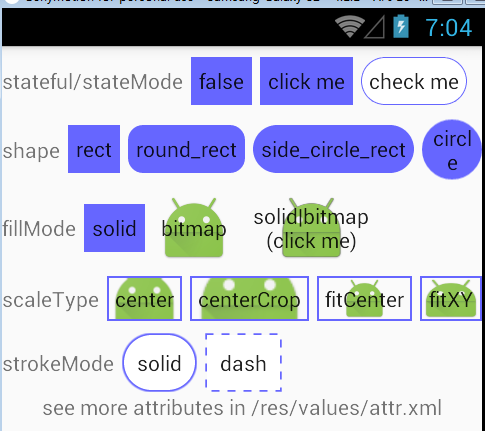
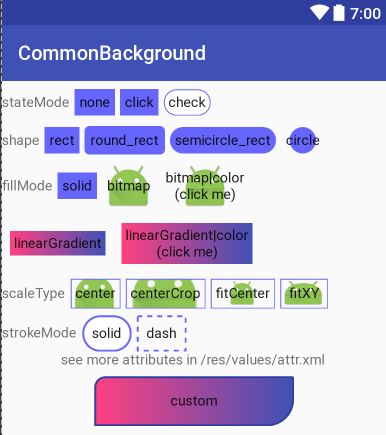
edit preview picture and README

diff --git a/README.md b/README.md
@@ -6,7 +6,7 @@ Android common-background drawable, supports multi shapes, multi states, multi s
 ![image](https://github.com/yintaibing/CommonBackgroundWidget/blob/master/screenshot/preview.png)
 
 # Usage
-- Usage in XML(see all configurable attributes in [attrs.xml](https://github.com/yintaibing/android-common-drawable-factory/blob/master/app/src/main/res/values/attrs.xml)):
+- Usage in XML(see all configurable attributes in attrs.xml below
 ```xml
 <com.ytb.myapp.widget.commonbackground.CommonBackgroundXXX
             android:layout_width="wrap_content"
@@ -44,3 +44,68 @@ CommonBackgroundXXX supports TextView, Button, ImageView, CheckBox, FrameLayout,
         // set.theChecked()...
         set.showOn(yourView);
 ```
+
+# attrs.xml
+```xml
+    <!-- 通用背景图属性定义 -->
+    <declare-styleable name="CommonBackground">
+        <!-- 状态的区分模式-->
+        <attr name="bg_stateMode">
+            <enum name="none" value="0"/><!-- 无状态 -->
+            <enum name="click" value="1"/><!-- 点击模式，类似于Button -->
+            <enum name="check" value="2"/><!-- 选择模式，类似于CheckBox -->
+        </attr>
+
+        <!-- 形状 -->
+        <attr name="bg_shape">
+            <enum name="rect" value="0"/>
+            <enum name="round_rect" value="1"/><!-- 圆角矩形 -->
+            <enum name="semicircle_rect" value="2"/><!-- 圆头矩形（自动计算半径） -->
+            <enum name="circle" value="3"/>
+        </attr>
+
+        <!-- 填充模式，若为solid|bitmap，此时填充色将作为图片蒙层，注意设置填充色的透明度 -->
+        <attr name="bg_fillMode">
+            <flag name="color" value="1"/><!-- 纯色填充 -->
+            <flag name="bitmap" value="2"/><!-- 图片填充 -->
+            <flag name="linearGradient" value="4"/><!-- 线性渐变填充 -->
+        </attr>
+
+        <!-- 填充图的缩放类型 -->
+        <attr name="bg_scaleType">
+            <enum name="center" value="0"/>
+            <enum name="centerCrop" value="1"/><!-- 对齐控件width/height中的大者 -->
+            <enum name="fitCenter" value="2"/><!-- 对齐控件width/height中的小者 -->
+            <enum name="fitXY" value="3"/><!-- 对齐控件长宽 -->
+        </attr>
+
+        <!-- 描边模式 -->
+        <attr name="bg_strokeMode">
+            <enum name="none" value="0"/>
+            <enum name="solid" value="1"/><!-- 实线描边 -->
+            <enum name="dash" value="2"/><!-- 断续线描边 -->
+        </attr>
+        <attr name="bg_radius" format="dimension"/><!-- 圆角半径/形状为圆时的半径 -->
+        <attr name="bg_radiusLeftTop" format="dimension"/>
+        <attr name="bg_radiusLeftBottom" format="dimension"/>
+        <attr name="bg_radiusRightTop" format="dimension"/>
+        <attr name="bg_radiusRightBottom" format="dimension"/>
+        <attr name="bg_strokeWidth" format="dimension"/><!-- 描边宽度 -->
+        <attr name="bg_strokeDashSolid" format="dimension"/><!-- 断续线描边时，每一段实线的长度 -->
+        <attr name="bg_strokeDashSpace" format="dimension"/><!-- 断续线描边时，每一段空白的长度 -->
+        <attr name="bg_colorDisabled" format="color"/><!-- 各种状态的颜色 -->
+        <attr name="bg_colorNormal" format="color"/>
+        <attr name="bg_colorPressed" format="color"/>
+        <attr name="bg_colorUnchecked" format="color"/>
+        <attr name="bg_colorChecked" format="color"/>
+        <attr name="bg_colorStroke" format="color"/><!-- 描边颜色 -->
+        <attr name="bg_gradientStartColor" format="color"/>
+        <attr name="bg_gradientEndColor" format="color"/>
+        <attr name="bg_linearGradientOrientation">
+            <enum name="left_right" value="0"/>
+            <enum name="top_bottom" value="1"/>
+            <enum name="right_left" value="2"/>
+            <enum name="bottom_top" value="3"/>
+        </attr>
+        <attr name="bg_bitmap" format="reference"/><!-- 填充图资源id -->
+    </declare-styleable>
